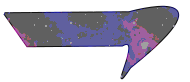
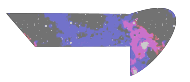
maj images + fleche

diff --git a/Escape/src/hud/Hud.java b/Escape/src/hud/Hud.java
@@ -1,21 +1,15 @@
 package hud;
 
-import java.awt.Graphics2D;
-import java.awt.image.BufferedImage;
-import java.io.File;
-import java.io.IOException;
-import java.util.ArrayList;
-import java.util.Iterator;
-import java.util.List;
-
-import javax.imageio.ImageIO;
-
-import entities.weapons.Fireball;
-import entities.weapons.Weapon;
 import fr.umlv.zen2.MotionEvent;
 import fr.umlv.zen2.MotionEvent.Kind;
 import game.Ressources;
 import game.Variables;
+
+import java.awt.Graphics2D;
+import java.awt.image.BufferedImage;
+import java.util.ArrayList;
+import java.util.Iterator;
+import java.util.List;
 
 public class Hud implements LifeListener, ItemListener {
 
@@ -29,8 +23,15 @@ public class Hud implements LifeListener, ItemListener {
 		return instance;
 	}
 
+	
+	/*TODO :
+	*Refactoring -> drawItem dans Item avec le nom render()
+	*Faire la detection des armes dans le menu
+	*
+	*/
+	
 
-	private BufferedImage hudLeft, hudRight, cadreSup, cadreInf, cadreBor, error;
+	private BufferedImage hudLeft, hudRight, cadreSup, cadreInf, cadreBor, noWeapon, flecheDown;
 	private final List<Item> items;
 	private int score;
 	private boolean displayItemList;
@@ -44,7 +45,8 @@ public class Hud implements LifeListener, ItemListener {
 		cadreSup = Ressources.getImage("images/hud/fontWeaponTop.png");
 		cadreInf = Ressources.getImage("images/hud/fontWeaponBot.png");
 		cadreBor = Ressources.getImage("images/hud/fontWeapon.png");
-		error = Ressources.getImage("images/hud/error.png");
+		noWeapon = Ressources.getImage("images/hud/error.png");
+		flecheDown = Ressources.getImage("images/hud/flechedown.png");
 		score = 0;
 		sizeLife = 4*hudLeft.getWidth()/7;
 		echelle = sizeLife/Variables.MAX_LIFE;
@@ -100,6 +102,9 @@ public class Hud implements LifeListener, ItemListener {
 		
 		if(printFont == true)
 			graphics.drawImage(cadreBor, x, y, cadreBor.getWidth(), cadreBor.getHeight(), null);//the font
+		if(printFont == false)
+			graphics.drawImage(flecheDown, x+95, y, flecheDown.getWidth(), flecheDown.getHeight(), null);//the bottom fleche
+		
 		graphics.drawImage(item.getImage(), x+5, y+1, widthItem, heighItem, null);//image of the item
 		
 		graphics.setColor(Variables.WHITE);
@@ -113,7 +118,7 @@ public class Hud implements LifeListener, ItemListener {
 	
 	
 	public void drawItemList(Graphics2D graphics){
-		int debWeaponX = Variables.SCREEN_WIDTH-hudRight.getWidth() + hudRight.getWidth()/7;
+		int debWeaponX = Variables.SCREEN_WIDTH-hudRight.getWidth() + 4*hudRight.getWidth()/18;
 		int debWeaponY = 6*hudRight.getHeight()/11;
 		int echelleY = cadreBor.getHeight();
 		int i=0;
@@ -144,7 +149,7 @@ public class Hud implements LifeListener, ItemListener {
 		
 		/*Drawing actual item in the Right Hud */
 		if(items.isEmpty())
-			drawItem(graphics, beginLeftHud+30, hudRight.getHeight()/5, new Item("No Weapon", error, 0), false);
+			drawItem(graphics, beginLeftHud+30, hudRight.getHeight()/5, new Item("No Weapon", noWeapon, 0), false);
 		else
 			drawItem(graphics, beginLeftHud+30, hudRight.getHeight()/5, items.get(0), false);
 		
@@ -158,10 +163,29 @@ public class Hud implements LifeListener, ItemListener {
 		int beginLeftHud = Variables.SCREEN_WIDTH-hudRight.getWidth();
 		int mouseX = event.getX(), mouseY = event.getY();
 		
+		/*Displaying the menu*/
 		if(mouseX >= beginLeftHud && mouseX <= (beginLeftHud+hudRight.getWidth()-20))
 			if(mouseY >= 10 && mouseY <= hudRight.getHeight()-10)
 				if(event.getKind() == Kind.ACTION_DOWN)
 					displayItemList=(displayItemList==true)?false:true;
+		
+		
+		/* Choising the arm --- in case*/
+		int debItemX = Variables.SCREEN_WIDTH-hudRight.getWidth() + hudRight.getWidth()/7;
+		int finItemX = debItemX + cadreBor.getWidth();
+		if(displayItemList == false)
+			return;
+		
+		//Iterator<> it = items.iterator();
+		/*for(int i=0;i<items.size();i++)
+				if(mouseX >= debItemX && mouseX <= finItemX)
+					items.add(e);
+		}*/
+		
+		
+		
+		
+		
 		//System.out.println(event.getX()+" et "+event.getY());
 	}
 
@@ -178,11 +202,7 @@ public class Hud implements LifeListener, ItemListener {
 		//Draw the score
 		drawScore(graphics);
 
-
-
 	}
-
-
 
 
 
